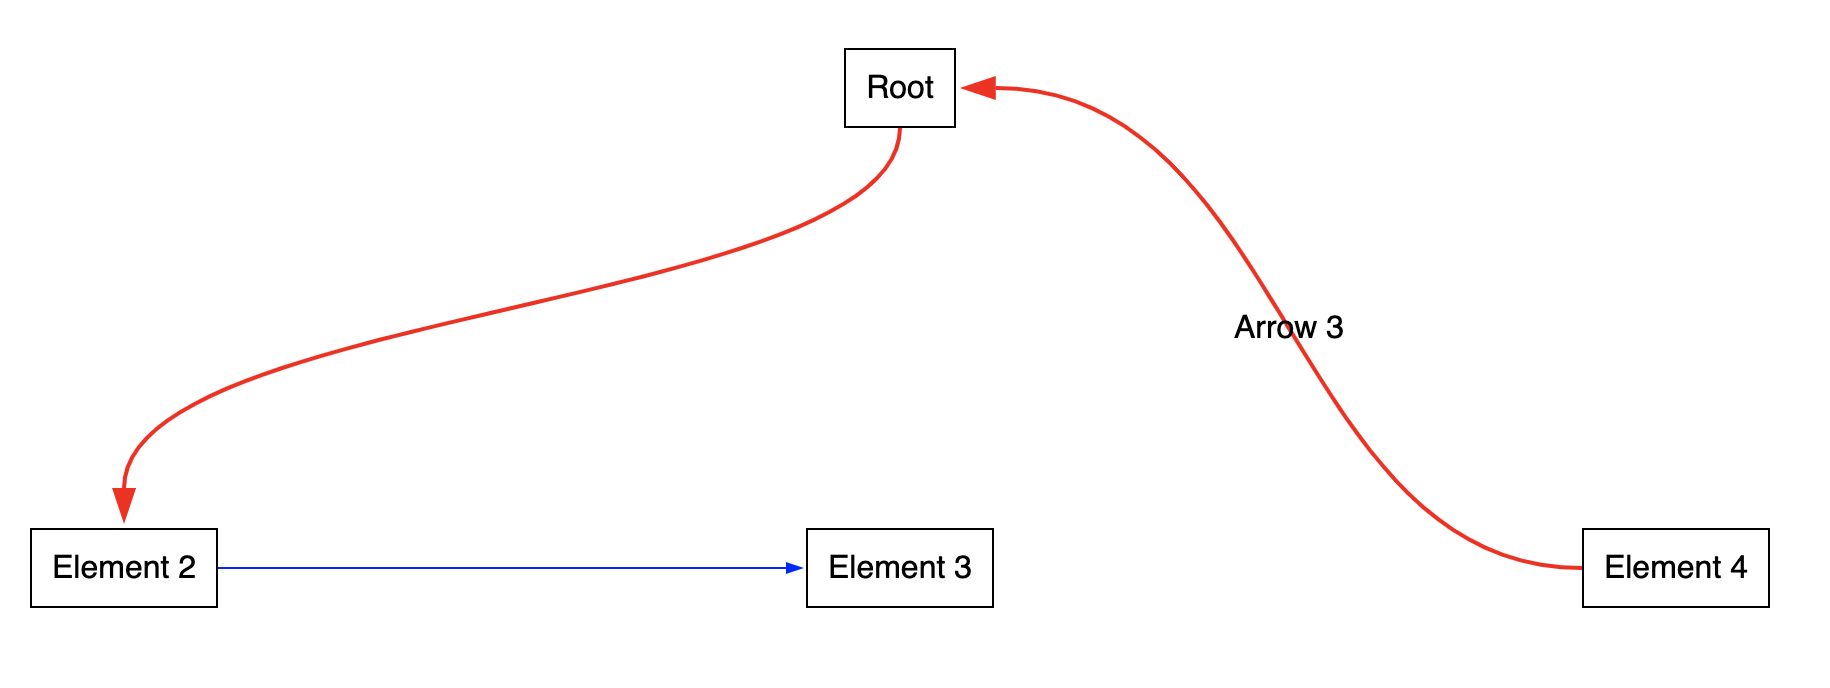
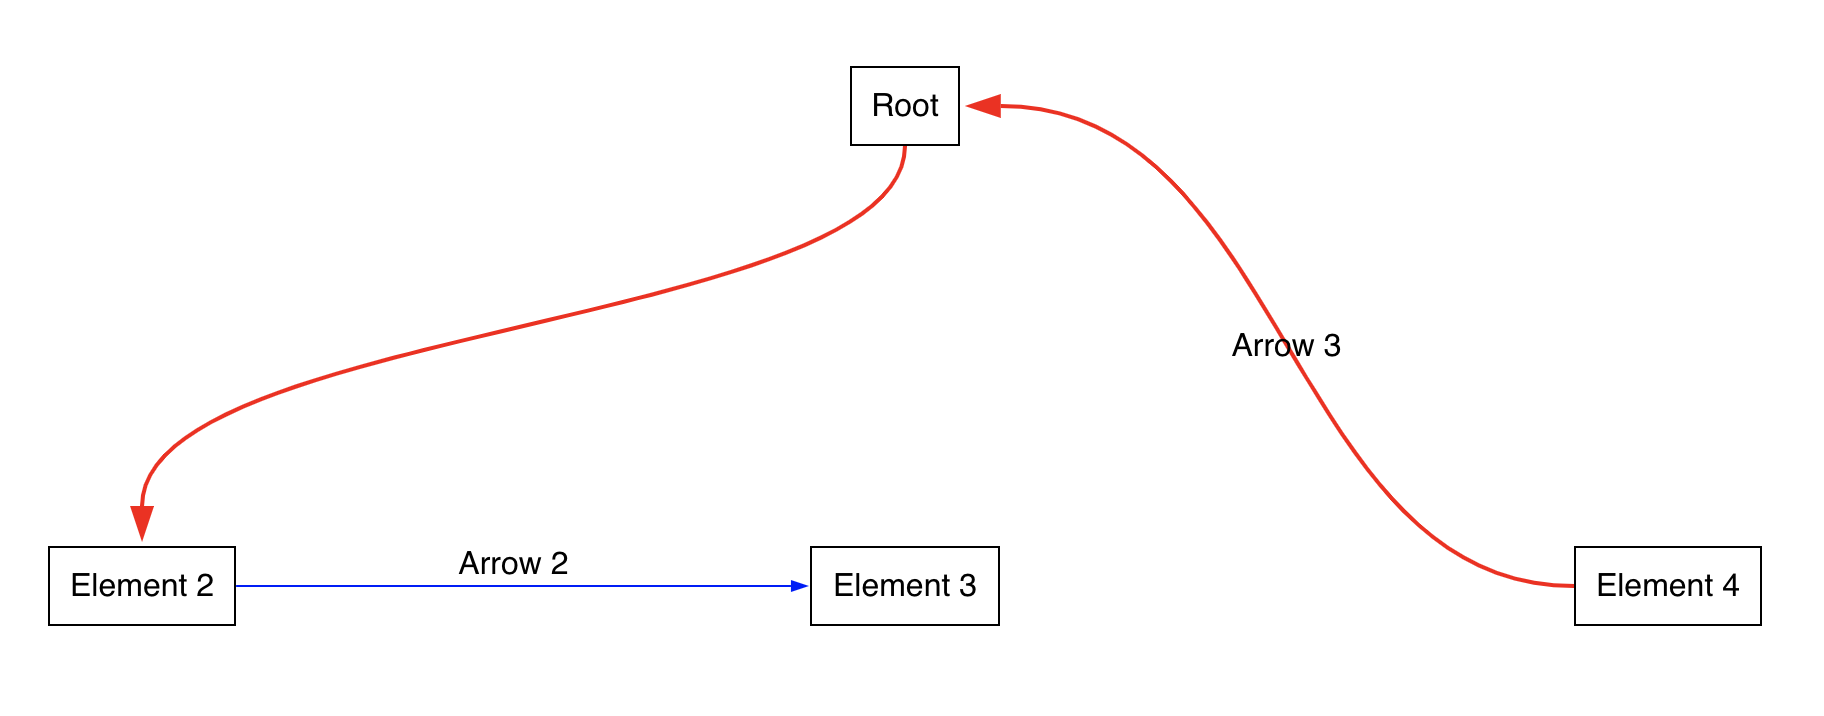
fix arrowLabel's visibility

diff --git a/src/SvgArrow.js b/src/SvgArrow.js
@@ -169,7 +169,7 @@ const SvgArrow = ({
         markerEnd={`url(${location.href}#${arrowMarkerId})`}
       />
       {arrowLabel && (
-        <foreignObject x={xl} y={yl} width={wl} height={hl}>
+        <foreignObject x={xl} y={yl} width={wl} height={hl} style={{overflow:'visible'}}>
           <div
             style={{
               width: wl,
